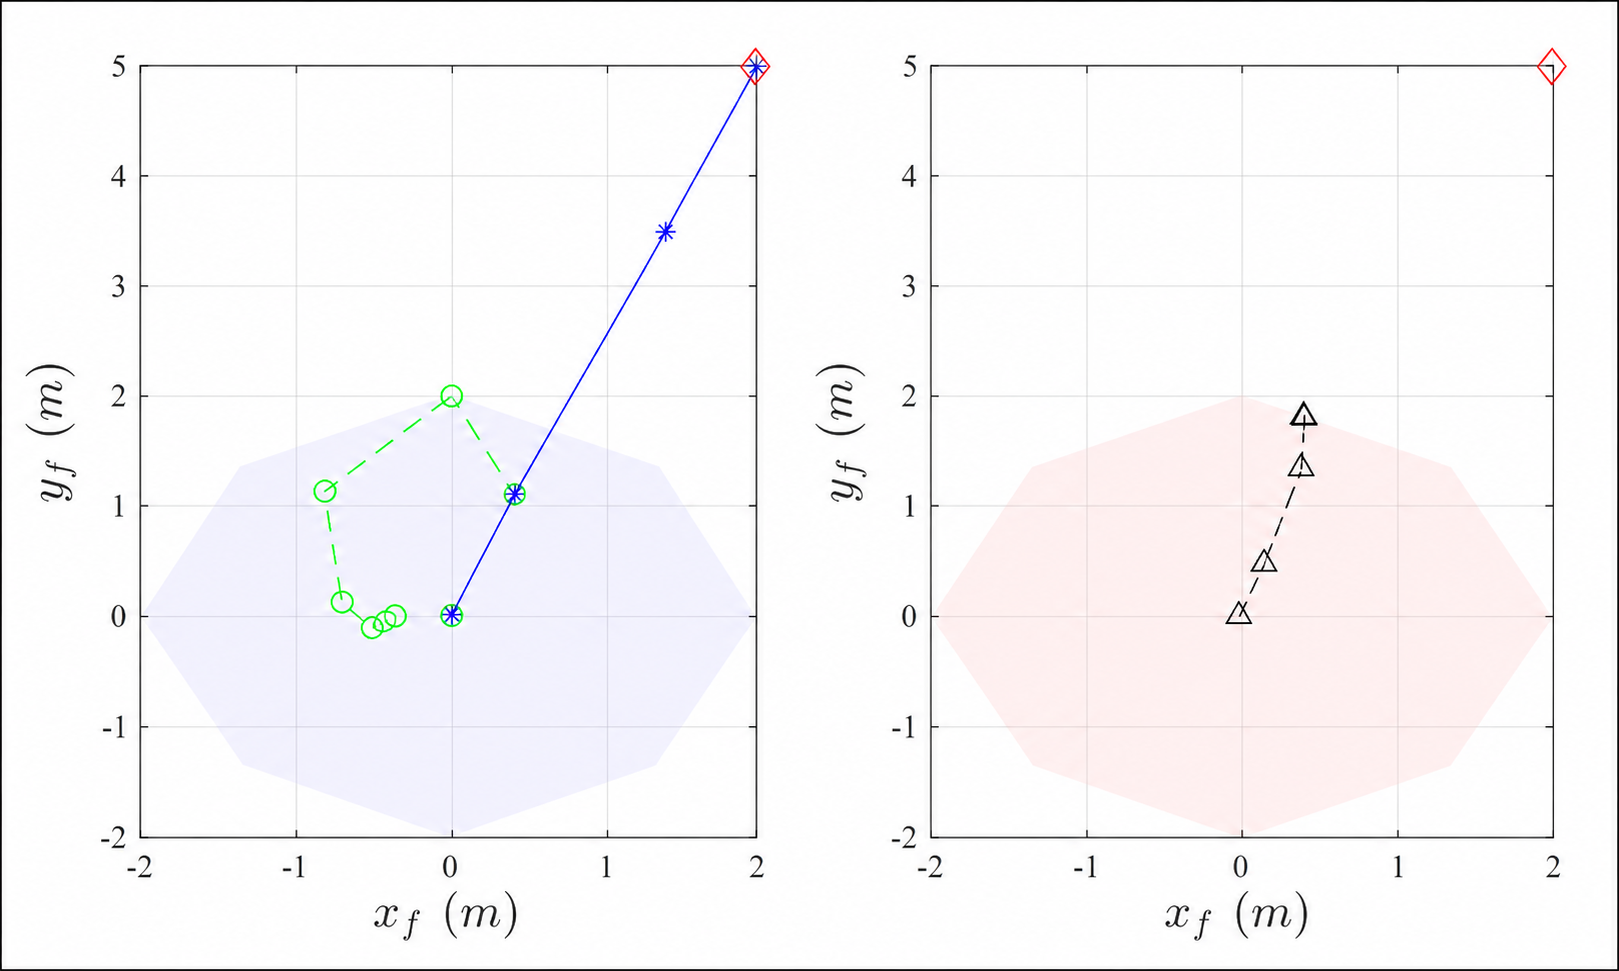
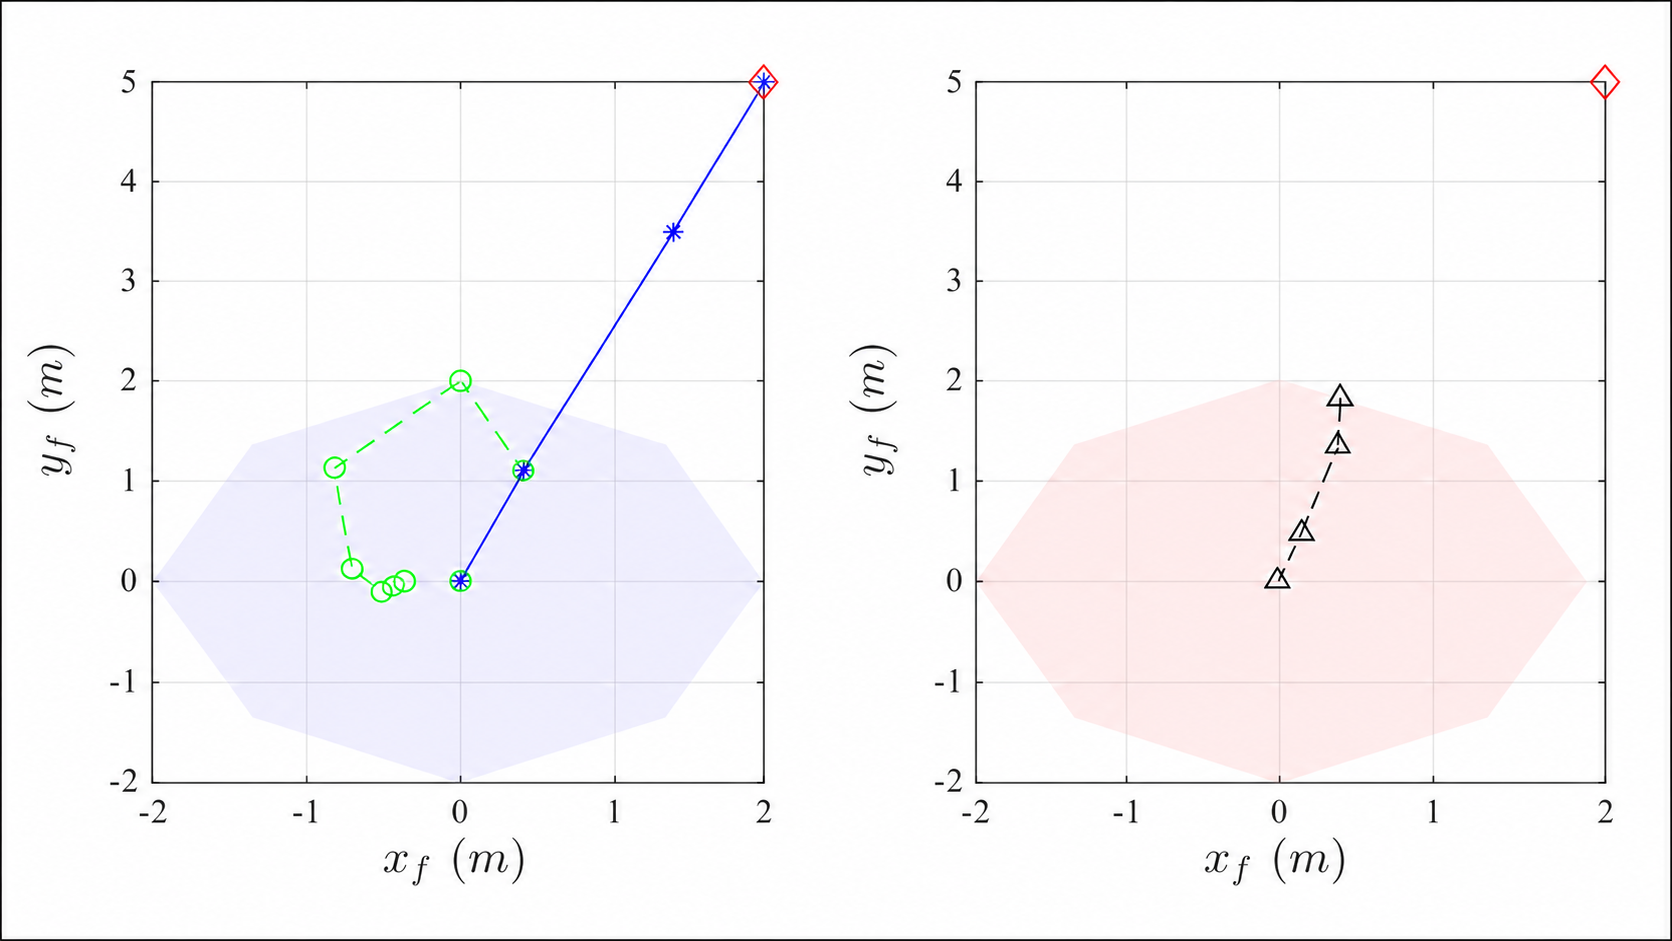
updated picture

diff --git a/research.html b/research.html
@@ -75,7 +75,7 @@
               <figure class="research-figure" data-image-shell>
                 <img src="assets/img/research/mtMPC.png" alt="Figure placeholder for predictive optimization and constraints" loading="lazy" data-fallback-image>
                 <div class="research-figure-placeholder" aria-hidden="true"><span>Figure 1</span></div>
-                <figcaption>Idea of the multi-trajectory MPC</figcaption>
+                <figcaption>Idea of the multi-trajectory MPC approach</figcaption>
               </figure>
               <figure class="research-figure" data-image-shell>
                 <img src="assets/img/research/tube.png" alt="Figure placeholder for predictive safety filters" loading="lazy" data-fallback-image>